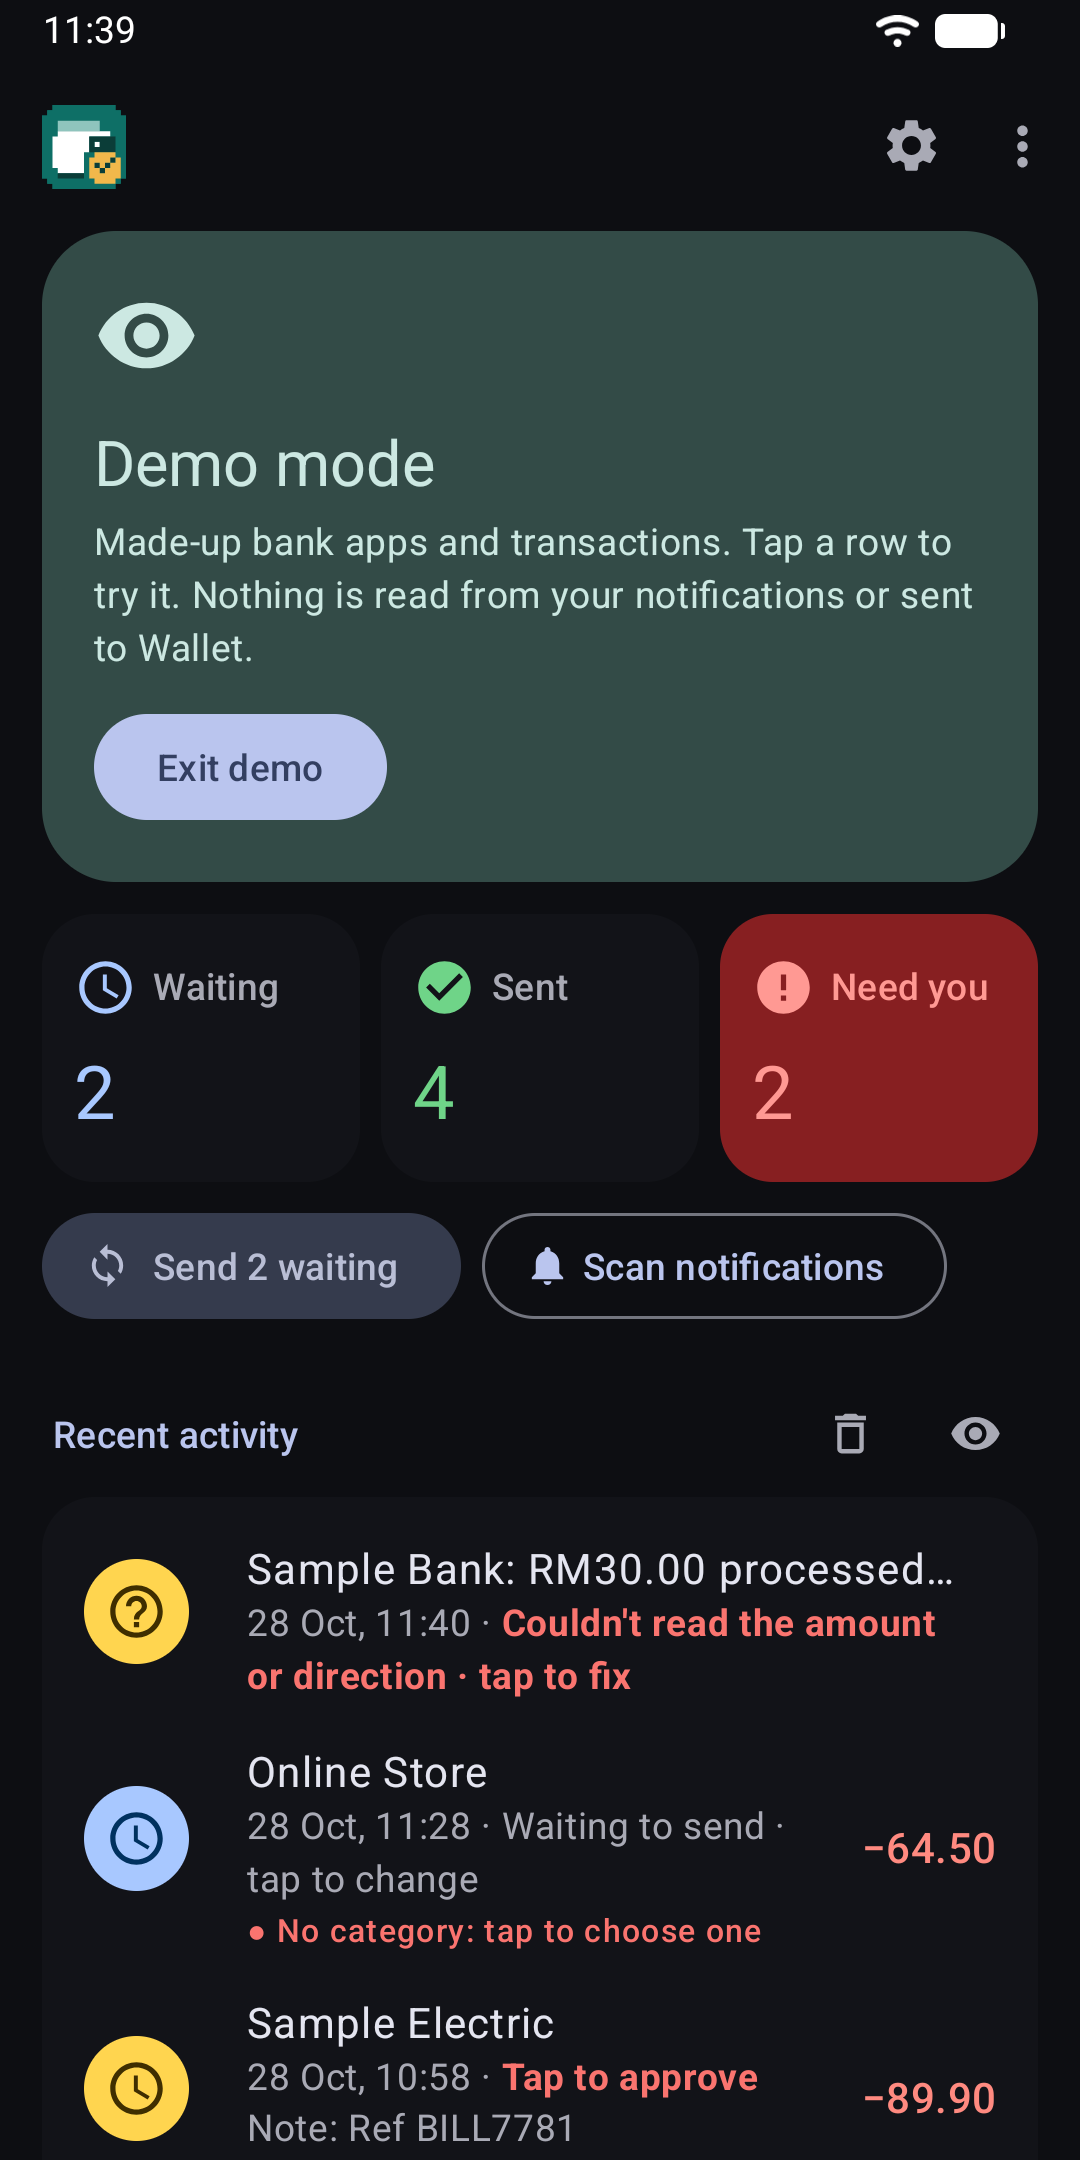
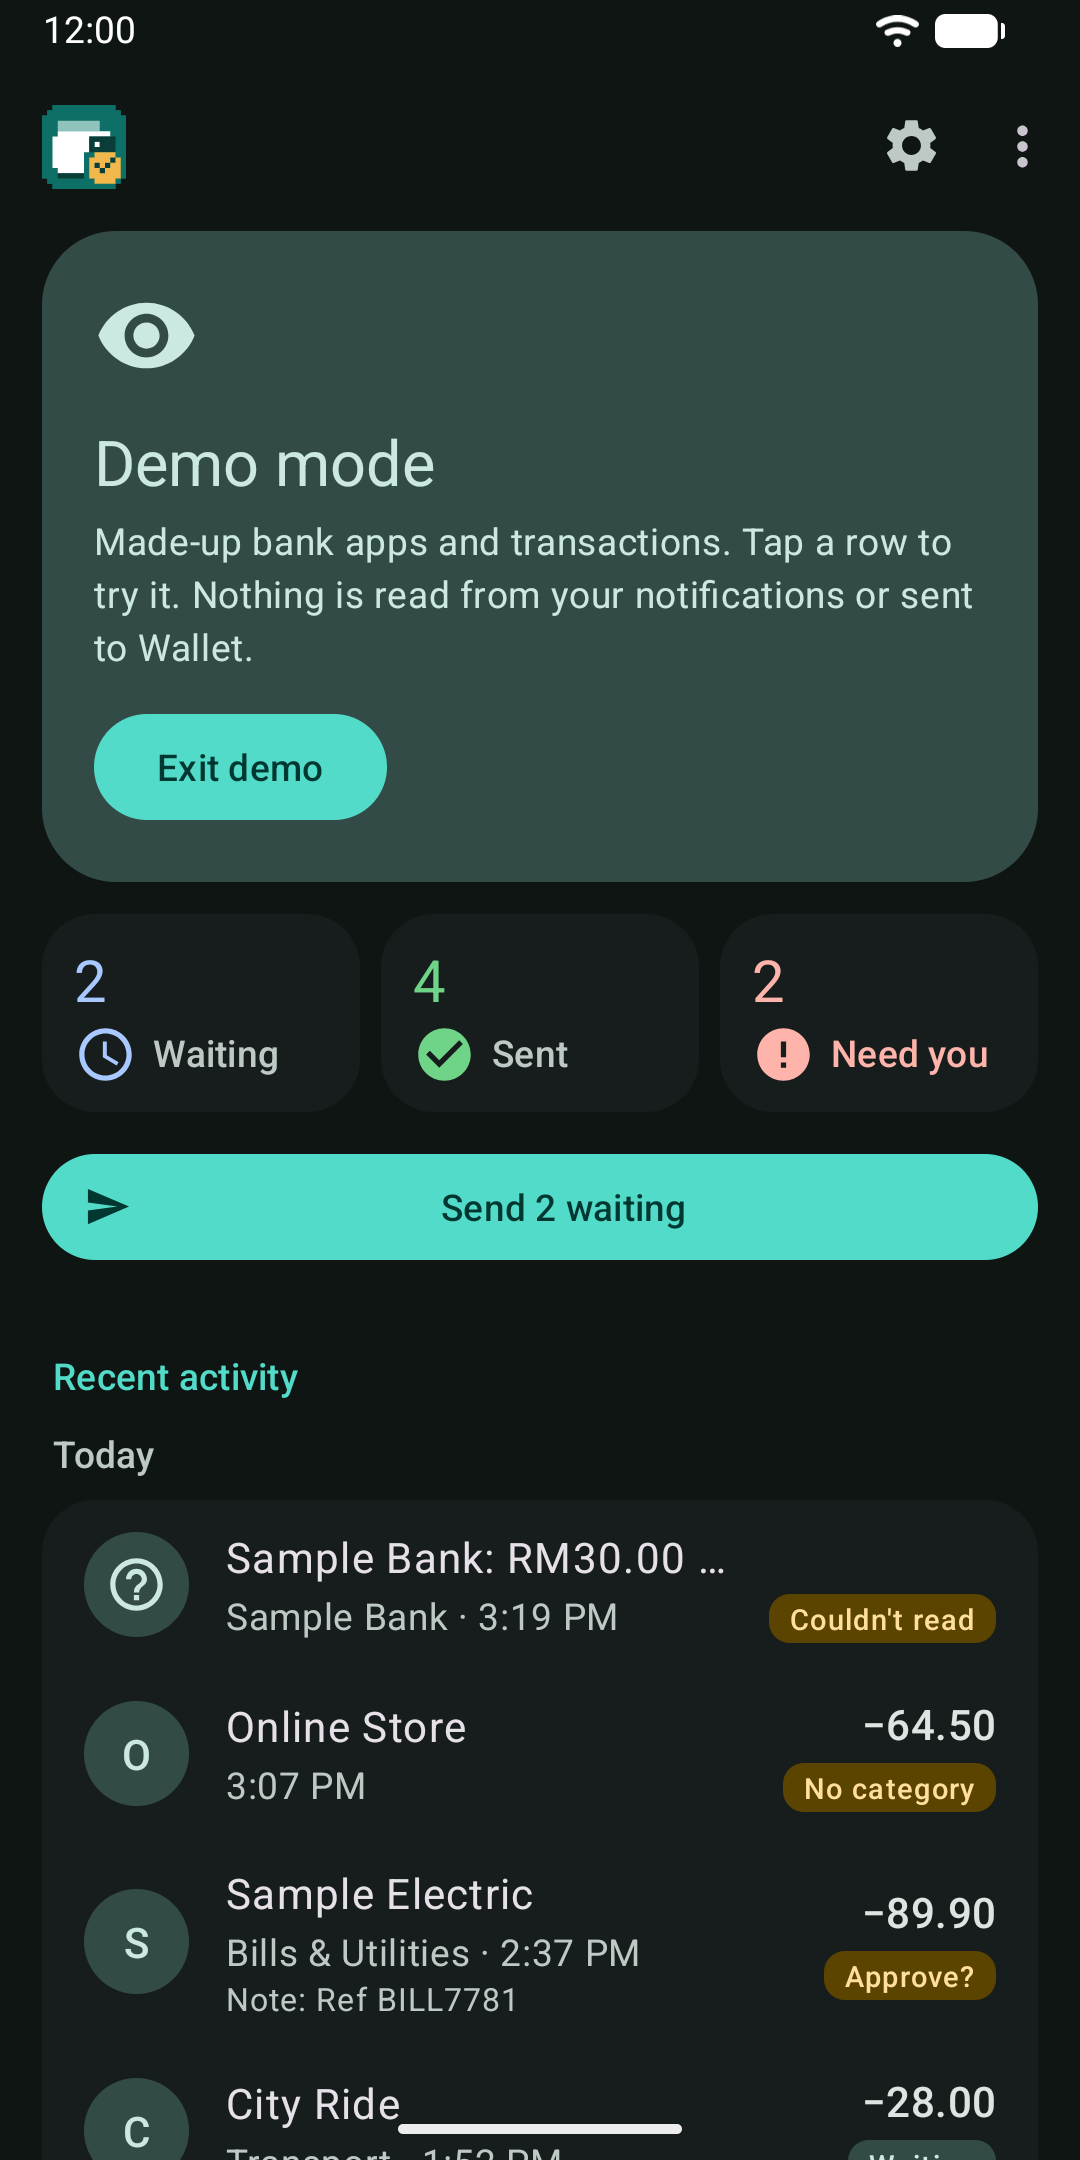
build: take the play screenshots with a script
tools/screenshots.ps1 builds, starts the emulator, opens the debug app straight into demo mode (a debug-only intent extra) and saves the six store screenshots at 1080x2160 with a clean status bar. The screenshots are retaken for 1.6, with a new one of a sent record's sheet.

diff --git a/app/src/main/java/app/banksync/MainActivity.kt b/app/src/main/java/app/banksync/MainActivity.kt
@@ -2,6 +2,7 @@ package app.banksync
 
 import android.content.DialogInterface
 import android.content.Intent
+import android.content.pm.ApplicationInfo
 import android.content.res.ColorStateList
 import android.graphics.drawable.Drawable
 import android.os.Build
@@ -160,7 +161,10 @@ class MainActivity : LockedActivity() {
             setOnRefreshListener { scan { isRefreshing = false } }
         }
 
-        if (!settings.onboardingDone) {
+        if (intent.getBooleanExtra(EXTRA_DEMO, false) && applicationInfo.flags and ApplicationInfo.FLAG_DEBUGGABLE != 0) {
+            // Debug builds only, for tools/screenshots.ps1: straight into the demo, with no guide or prompts.
+            Demo.start(this)
+        } else if (!settings.onboardingDone) {
             // A new install starts on the setup guide, not on a list of changes.
             settings.seenVersion = Changelog.installed(this).first
             openGuide()
@@ -1120,5 +1124,8 @@ class MainActivity : LockedActivity() {
     companion object {
         /** The record a "picked up" notification's Change button opens. */
         const val EXTRA_RECORD = "app.banksync.RECORD"
+
+        /** Debug builds open straight into the demo with this set (`am start ... --ez demo true`); release builds ignore it. */
+        const val EXTRA_DEMO = "demo"
     }
 }

diff --git a/AGENTS.md b/AGENTS.md
@@ -46,7 +46,8 @@ Single module `app/`. Kotlin, **Android Views with Material Components 1.12 (Mat
 | `res/values{,-night}/themes.xml` | Teal M3 palette and the `Widget.BankSync.*` styles. Change both files together. On Android 12+ the wallpaper's colours replace the palette (`App`, `DynamicColors` with `Settings.wallpaperColors` as its precondition) unless turned off in Settings. |
 | `app/src/test/` | JUnit 4: `ParserTest`, `RuleMatcherTest`, `CategorizerTest`, `ChangelogTest`, `DemoTest`, `SummaryTest`, `CategorySearchTest`, `TransfersTest`, `SentEditTest`, `DaysTest`. |
 | `PRIVACY.md` | Privacy policy; its public URL goes in Play Console. Keep it true to what the code does, and update it in the same change as anything that alters what is read, stored or sent. |
-| `store/` | Play listing text and form answers (`LISTING.md`), `play-icon-512.png`, `feature-graphic-1024x500.png`, `screenshots/` (five demo-mode phone shots, 1080x2160, one dark), and `make-graphics.mjs`, which renders both from the extension's icon with its Puppeteer and sharp (`CHROME_PATH` to Brave; Edge exits silently here). |
+| `store/` | Play listing text and form answers (`LISTING.md`), `play-icon-512.png`, `feature-graphic-1024x500.png`, `screenshots/` (six demo-mode phone shots, 1080x2160, one dark, made by `tools/screenshots.ps1`), and `make-graphics.mjs`, which renders both from the extension's icon with its Puppeteer and sharp (`CHROME_PATH` to Brave; Edge exits silently here). |
+| `tools/screenshots.ps1` | Takes the Play screenshots on the emulator (never a phone): builds, starts the AVD, opens the debug app straight into the demo (`MainActivity.EXTRA_DEMO`, ignored by release builds), sets 1080x2160 and a clean status bar, taps through by text with `uiautomator`. Also the quickest way to see a UI change; add a step for a new screen. |
 | `.claude/skills/` | Google's Android skills (github.com/android/skills), git-ignored, local only. Many assume Compose; adapt them to Views. |
 
 ## Build and test (Windows)
@@ -117,6 +118,6 @@ $env:JAVA_HOME = "C:\Program Files\Eclipse Adoptium\jdk-17.0.20.101-hotspot"
 
 ## Status as of 2026-10-30
 
-- Done: capture and offline queue, catch-up scan, review mode, extension-style categories with Wallet rules and labels, redesigned home and settings, edge-to-edge, AGP 9 migration, BiometricPrompt app lock, configuration cache. 1.2 (versionCode 3) prepares for Play: demo mode, the notification-access disclosure, no battery-exemption permission, upload-key signing, `PRIVACY.md` and `store/`. 1.3 (versionCode 4): "needs you" and "picked up" notifications, daily summary, ask when there is no category, single-rule fallback, remember an account from the Fix dialog, full merchant names in notes. 1.4 (versionCode 5): transfer pairing (replaces the removed "skip money Wallet already has"), skipping ads and notices, the Transfer category fix. 1.5 (versionCode 6): Touch 'n Go Cash ins to GO+, per-app default accounts with held alerts rechecked, editable notes, the record details dialog, ShopeePay, every payee in `counterParty`. 1.5.1 (versionCode 7): no "−0.00" for an unread alert's amount. 1.5.2 (versionCode 8): tests for transfer alerts with any transfer method, no app change. 1.5.3 (versionCode 9): more ad wording skipped, Delete in the details dialog of a not-understood alert. 1.5.4 (versionCode 10): alerts with no amount are skipped as notices, payment word or not. 1.5.5 (versionCode 11): a dot inside a payee ("Sample.com") no longer ends it. 1.6 (versionCode 12): the row actions sheet with uploads paused while it is open, Edit in Wallet for sent records, account included, and Remove from Wallet (`PATCH` and `DELETE` with a body; HttpURLConnection's support for both on the phone, and Wallet's answers, unverified), refused changes kept for Try again, a 2-minute default batch delay (unverified on a phone), and the home screen redesign (day groups, status pills, tap opens one sheet, filtering tiles, pull to scan, wallpaper colours switch; checked on the emulator in demo mode, light and dark, not on a real phone). The Play screenshots in `store/screenshots/` still show the 1.5 home screen and need retaking.
+- Done: capture and offline queue, catch-up scan, review mode, extension-style categories with Wallet rules and labels, redesigned home and settings, edge-to-edge, AGP 9 migration, BiometricPrompt app lock, configuration cache. 1.2 (versionCode 3) prepares for Play: demo mode, the notification-access disclosure, no battery-exemption permission, upload-key signing, `PRIVACY.md` and `store/`. 1.3 (versionCode 4): "needs you" and "picked up" notifications, daily summary, ask when there is no category, single-rule fallback, remember an account from the Fix dialog, full merchant names in notes. 1.4 (versionCode 5): transfer pairing (replaces the removed "skip money Wallet already has"), skipping ads and notices, the Transfer category fix. 1.5 (versionCode 6): Touch 'n Go Cash ins to GO+, per-app default accounts with held alerts rechecked, editable notes, the record details dialog, ShopeePay, every payee in `counterParty`. 1.5.1 (versionCode 7): no "−0.00" for an unread alert's amount. 1.5.2 (versionCode 8): tests for transfer alerts with any transfer method, no app change. 1.5.3 (versionCode 9): more ad wording skipped, Delete in the details dialog of a not-understood alert. 1.5.4 (versionCode 10): alerts with no amount are skipped as notices, payment word or not. 1.5.5 (versionCode 11): a dot inside a payee ("Sample.com") no longer ends it. 1.6 (versionCode 12): the row actions sheet with uploads paused while it is open, Edit in Wallet for sent records, account included, and Remove from Wallet (`PATCH` and `DELETE` with a body; HttpURLConnection's support for both on the phone, and Wallet's answers, unverified), refused changes kept for Try again, a 2-minute default batch delay (unverified on a phone), and the home screen redesign (day groups, status pills, tap opens one sheet, filtering tiles, pull to scan, wallpaper colours switch; checked on the emulator in demo mode, light and dark, not on a real phone). 
 - Unverified on a real phone: whether binding with `pairingMode: existing` turns the already-sent side into a transfer (category included); all of 1.3 (notification buttons, Change after the app lock, the 9 pm alarm), demo mode, the disclosure dialog and the battery settings page (the emulator's system image is missing), the whole redesign (light/dark, keyboard, landscape), Learned-from-Wallet counts, labels on created records, app lock with `BiometricPrompt` (including rotation while the prompt is up), the permanently-refused notification permission dialog.
 - Waiting on the owner: dummy samples of transfer alerts whose layout differs from the DuitNow ones (`ParserTest` already tries each DuitNow template with other method names such as Instant Transfer and IBG); the Play Console forms and 12-tester closed test (see `store/LISTING.md`); decisions on the USD estimate, the note default, undo after sending, and a wider duplicate check.

diff --git a/store/LISTING.md b/store/LISTING.md
@@ -96,14 +96,15 @@ The app needs a BudgetBakers Wallet Premium API token and a bank app's notificat
 - The battery exemption isn't requested; the user sets "Unrestricted" on the app's settings page if they choose to.
 
 ## Screenshots
-Use demo mode only, never real transactions. The ones in `screenshots/` (1.5, taken on the emulator with a clean status bar) are, in upload order:
-1. `1-home.png`: the home screen (demo hero card, counts and recent activity)
-2. `2-details.png`: "Sample Electric" tapped, the record details
-3. `3-approve.png`: its Review button, the "Send to Wallet?" dialog
-4. `4-not-understood.png`: the "Sample Bank: RM30.00" row's Fix button, the "Enter this transaction" dialog
+Use demo mode only, never real transactions. The ones in `screenshots/` (1.6, 1080×2160, the app's own teal colours) are, in upload order:
+1. `1-home.png`: the home screen (demo hero card, counts and recent activity by day)
+2. `2-details.png`: "Sample Electric" tapped, its sheet with details and actions
+3. `3-approve.png`: its "Review and change", the "Send to Wallet?" dialog
+4. `4-not-understood.png`: the "Sample Bank: RM30.00" row's Fix, the "Enter this transaction" dialog
 5. `5-dark.png`: the home screen in dark mode
+6. `6-sent.png`: "Sample Grocer" tapped, a sent record's sheet with Edit in Wallet
 
-To retake them: ⋮ › **Try with demo data**, then screenshot each (power + volume down). Play needs 2 to 8 phone screenshots, PNG or JPEG, sides between 320 and 3840 px, the long side no more than twice the short side. Phone screenshots are usually 1080×2400, which is over 2:1, so crop them to 1080×2160 (or a 9:16 crop) before uploading.
+To retake them, run `.	ools\screenshots.ps1` from the repo root (about a minute): it builds the debug APK, starts the emulator, opens the app straight into demo mode and saves all six with a clean status bar. Play needs 2 to 8 phone screenshots, PNG or JPEG, sides between 320 and 3840 px, the long side no more than twice the short side.
 
 ## Release
 1. Build the bundle: `.\gradlew.bat bundleRelease` (with `keystore.properties` in place), output `app/build/outputs/bundle/release/app-release.aab`.
